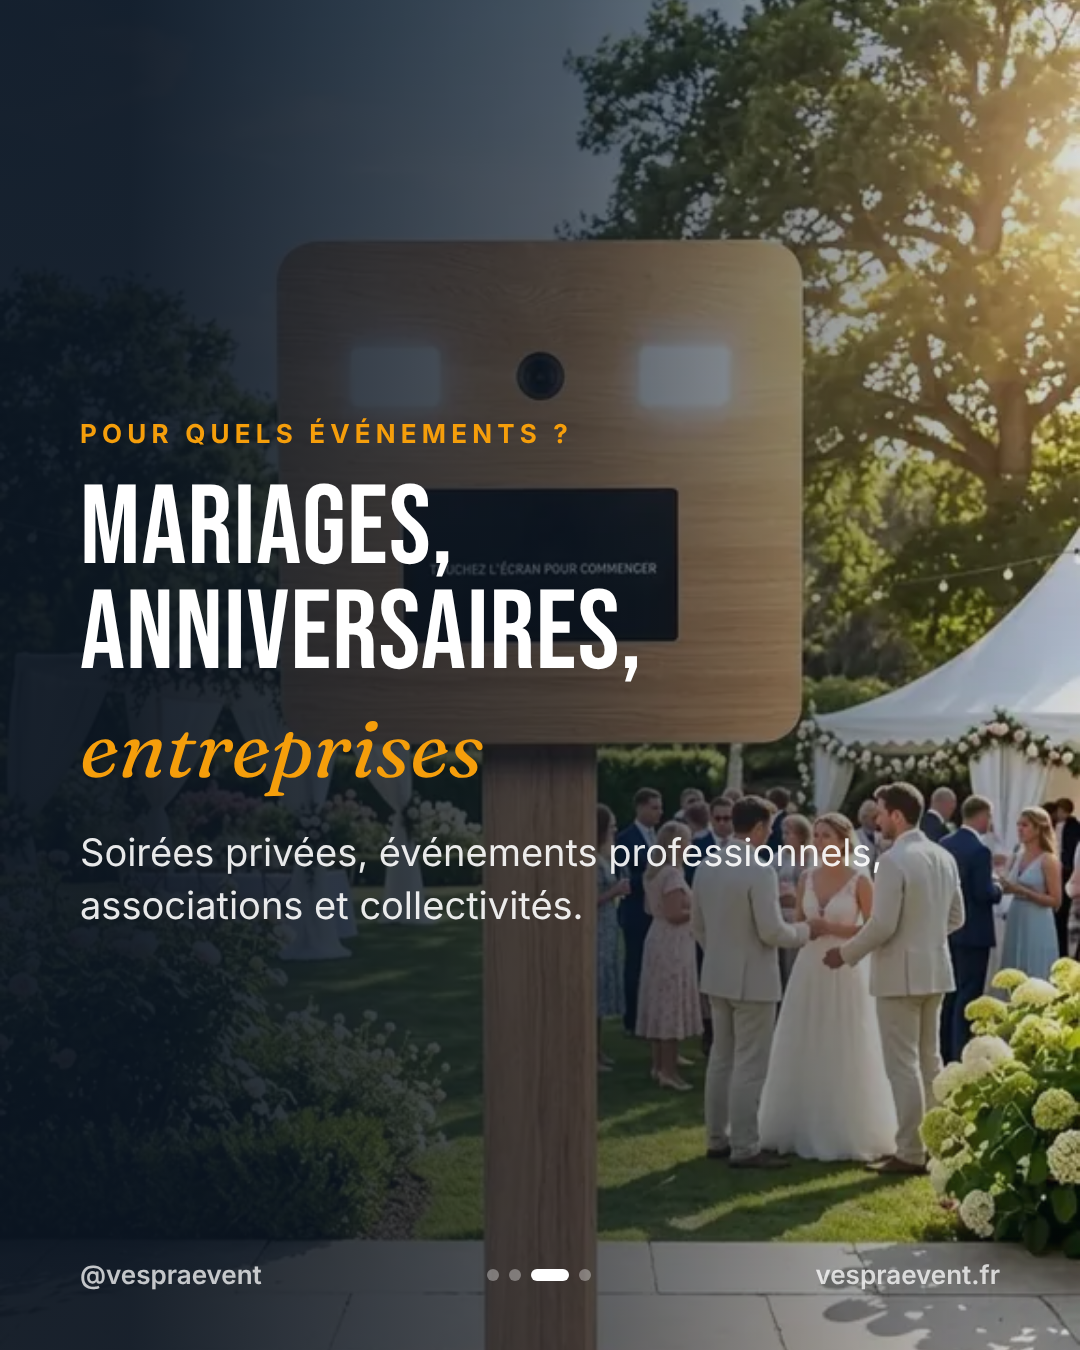
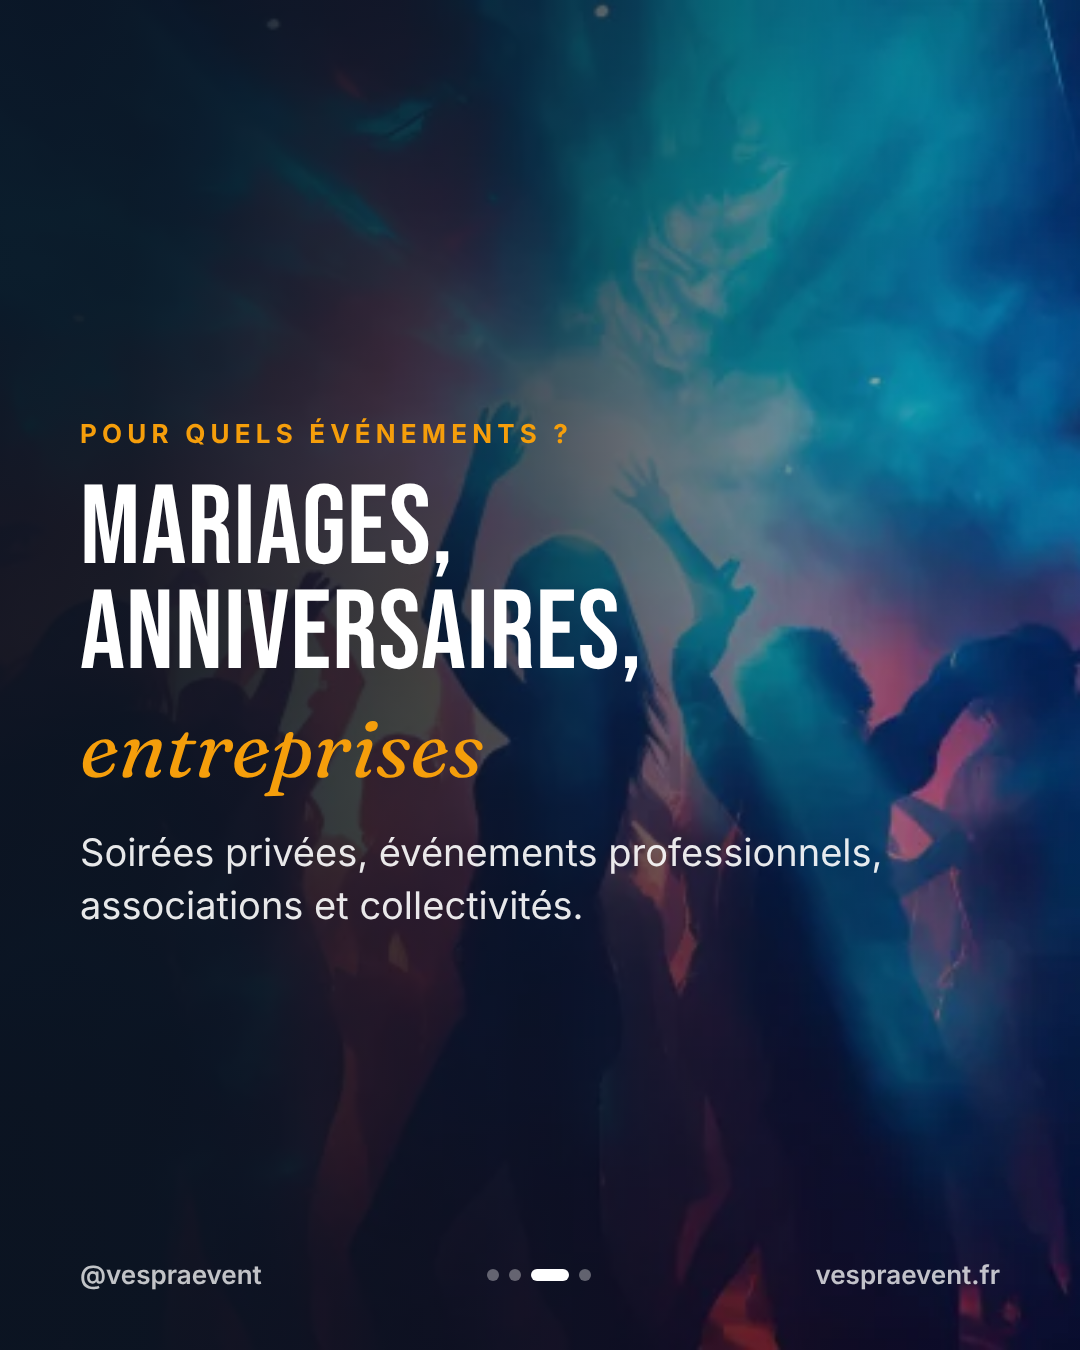
Instagram: photo d'ambiance soirée pour la publication A à Z

diff --git a/instagram/src/posts.js b/instagram/src/posts.js
@@ -12,7 +12,7 @@ const posts={
  '2-organisation-a-z':[
   (n,t)=>S('top',`<div class="shade b"></div><div class="tx bot"><span class="eye">Organisation de A à Z</span><h1>Nous organisons<br><em>votre événement</em></h1><p>Vous profitez, nous nous occupons du reste.</p><span class="swipe">Faites défiler →</span></div>`,n,t,'nous-organisons.webp'),
   (n,t)=>S('navy',`<div class="tx mid"><span class="eye">Pas seulement du matériel</span><h2>Trois choses,<br><em>un seul interlocuteur</em></h2><div class="trio"><div><b>Matériel</b><span>photobooth, son, lumière, barnums…</span></div><div><b>Prestations</b><span>pour accompagner votre événement</span></div><div><b>Intervenants</b><span>serveuse privée, chef pâtissier…</span></div></div></div>`,n,t),
-  (n,t)=>S('photo pos3',`<div class="shade l"></div><div class="tx mid"><span class="eye">Pour quels événements ?</span><h2>Mariages,<br>anniversaires,<br><em>entreprises</em></h2><p>Soirées privées, événements professionnels, associations et collectivités.</p></div>`,n,t,'photobooth-lifestyle.webp'),
+  (n,t)=>S('photo pos3',`<div class="shade l"></div><div class="tx mid"><span class="eye">Pour quels événements ?</span><h2>Mariages,<br>anniversaires,<br><em>entreprises</em></h2><p>Soirées privées, événements professionnels, associations et collectivités.</p></div>`,n,t,'ambiance-soiree.webp'),
   (n,t)=>S('navy',`<div class="tx mid c"><span class="eye">Venez nous voir à Vitré</span><h2>Nous organisons,<br><em>vous profitez !</em></h2><span class="btn">Prendre rendez-vous</span><span class="small">06 50 83 68 28 · vespraevent.fr</span></div>${logo}`,n,t)],
  '3-comment-ca-marche':[
   (n,t)=>S('photo',`<div class="shade b"></div><div class="tx bot"><span class="eye">Simple comme bonjour</span><h1>Votre événement,<br><em>en trois étapes</em></h1><span class="swipe">Faites défiler →</span></div>`,n,t,'tente-etoile-situation.webp'),
